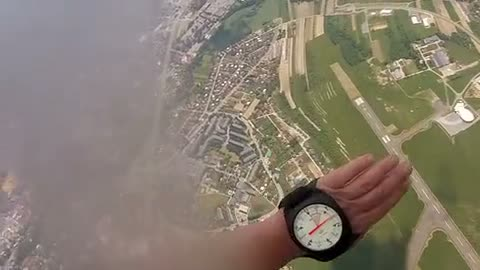
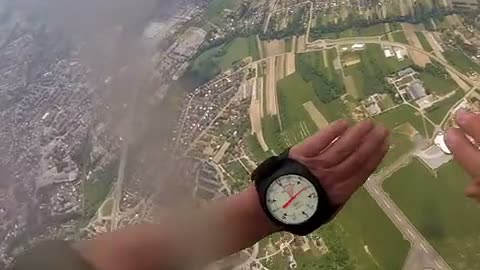
Real footage next to the drawings: exit, altimeter, canopy check and pattern clips; ft on big numbers and timelines
- Part I count: real first AFF exit from inside (exit_real)
- Part II flow: real wrist altimeter in freefall (alt_real, poster shows the dial)
- Part III deploy: POV canopy check right after opening; pattern: POV with the legs drawn on a real field
- "ft" on the altitude, EP and dropzone big numbers, dive-flow and pattern timelines, altimeter legend
- Canopy-check count chips labelled "Count, not altitude"; resume card says "x/20 tests passed"
- UK: "Висота відокремлення"; page guard report 2026-11-16-1415; plan and fixes overview updated

diff --git a/src/content/part3.ts b/src/content/part3.ts
@@ -110,6 +110,7 @@ export const part3: Part = {
                 clip('deploy', l('Lock on, wave off, reach, throw (their altimeter, not your pull altitude)', 'Altímetro, wave-off, buscar, lanzar (su altímetro, no tu altura de apertura)', 'Высотомер, отмашка, дотянуться, выбросить (их высотомер, не твоя высота раскрытия)', 'Висотомір, відмашка, дотягнутися, викинути (їхній висотомір, не твоя висота розкриття)'), 'Skydive Spaceland', 'ufz1HjyYs_0', 146),
                 clip('throw', l('Locate, grip, throw, arch, count', 'Localizar, agarrar, lanzar, arquear, contar', 'Найти, взять, выбросить, прогиб, счёт', 'Знайти, взяти, викинути, прогин, рахунок'), 'APF', 'PTYsjH7DSVA', 124),
                 clip('check', l('Canopy check: shape, slider, toggles, practice flares', 'Revisión de la vela: forma, slider, batidores, flares de práctica', 'Проверка купола: форма, слайдер, клеванты, пробные flare', 'Перевірка купола: форма, слайдер, клеванти, пробні flare'), 'APF', 'PTYsjH7DSVA', 154),
+                clip('canopy_check_pov', l('Your view right after opening: slider coming down, then the check: square, stable, steerable', 'Lo que ves justo después de abrir: el slider baja, luego la revisión: cuadrada, estable, gobernable', 'Что ты видишь сразу после раскрытия: слайдер опускается, дальше проверка: квадратный, стабильный, управляемый', 'Що ти бачиш одразу після розкриття: слайдер опускається, далі перевірка: квадратний, стабільний, керований'), 'Strictly Clown Business', 'moBHeP1WNNI', 33),
               ],
             },
           ],
@@ -214,7 +215,7 @@ export const part3: Part = {
           type: 'pattern',
           rows: [
             {
-              alt: '2,500',
+              alt: '2,500 ft',
               value: 2.5,
               point: [275, 205],
               title: l('Decide where to go', 'Decide adónde ir', 'Решаем, куда лететь', 'Вирішуємо, куди летіти'),
@@ -226,7 +227,7 @@ export const part3: Part = {
               ),
             },
             {
-              alt: '2,000',
+              alt: '2,000 ft',
               value: 2,
               point: [275, 205],
               title: l('Over the holding point', 'Sobre el punto de espera', 'Над точкой ожидания', 'Над точкою очікування'),
@@ -238,7 +239,7 @@ export const part3: Part = {
               ),
             },
             {
-              alt: '2,000→1,000',
+              alt: '2,000→1,000 ft',
               value: 1.5,
               point: [275, 205],
               title: l('Hold there', 'Espera ahí', 'Ожидание над точкой', 'Очікування над точкою'),
@@ -250,7 +251,7 @@ export const part3: Part = {
               ),
             },
             {
-              alt: '900',
+              alt: '900 ft',
               value: 0.9,
               hot: true,
               point: [250, 200],
@@ -263,7 +264,7 @@ export const part3: Part = {
               ),
             },
             {
-              alt: '600',
+              alt: '600 ft',
               value: 0.6,
               hot: true,
               point: [60, 200],
@@ -276,7 +277,7 @@ export const part3: Part = {
               ),
             },
             {
-              alt: '300',
+              alt: '300 ft',
               value: 0.3,
               hot: true,
               point: [60, 70],
@@ -327,6 +328,7 @@ export const part3: Part = {
           items: [
             clip('holding', l('Holding area, explained on a real dropzone', 'La zona de espera, explicada en una zona de salto real', 'Зона ожидания на настоящем аэродроме', 'Зона очікування на справжньому аеродромі'), 'Skydive Spaceland', 'puD56VJ8loA', 84),
             clip('pattern', l('Flying the pattern: downwind, base, final', 'Volar el circuito: viento en cola, base, final', 'Схема захода: по ветру, базовая прямая, финал', 'Схема заходу: по вітру, базова пряма, фінал'), 'Skydive Spaceland', 'puD56VJ8loA', 110),
+            clip('pattern_pov', l('From the canopy: downwind, base and final drawn on a real field (north wind at that dropzone)', 'Desde la vela: viento en cola, base y final dibujados sobre un campo real (viento del norte en esa zona de salto)', 'С купола: участки по ветру, базовая и финал нарисованы на настоящем поле (северный ветер на той площадке)', 'З купола: ділянки по вітру, базова й фінал намальовані на справжньому полі (північний вітер на тому майданчику)'), 'Skydive Miami', 'KUUMP_XCBUE', 217),
           ],
         },
         { type: 'h', text: l('Turn limits', 'Límites de giro', 'Ограничения разворотов', 'Обмеження розворотів') },

diff --git a/src/content/part2.ts b/src/content/part2.ts
@@ -174,7 +174,7 @@ export const part2: Part = {
           type: 'altimeter',
           rows: [
             {
-              alt: '13,000',
+              alt: '13,000 ft',
               value: 13,
               title: { en: 'Exit, arch', es: 'Salida, arquea', uk: 'Відокремлення, прогин', ru: 'Отделение, прогиб' },
               sub: {
@@ -229,14 +229,14 @@ export const part2: Part = {
               },
             },
             {
-              alt: '6,000',
+              alt: '6,000 ft',
               value: 6,
               hot: true,
               title: { en: 'Lock on', es: 'Lock on', uk: 'Лише висотомір', ru: 'Только высотомер' },
               sub: { en: '<b>No more</b> exercises.', es: '<b>Se acabaron</b> los ejercicios.', uk: 'Більше <b>жодних</b> вправ.', ru: 'Больше <b>никаких</b> упражнений.' },
             },
             {
-              alt: '5,500',
+              alt: '5,500 ft',
               value: 5.5,
               hot: true,
               title: { en: 'PULL', es: 'ABRIR', uk: 'РОЗКРИТТЯ', ru: 'РАСКРЫТИЕ' },
@@ -258,6 +258,18 @@ export const part2: Part = {
             uk: 'На справжньому студентському висотомірі колір є лише в <b>нижній частині</b> циферблата: в Alti-2 Galaxy, наприклад, жовто-червона дуга починається з <b>3 000 футів</b> (Para Gear). 6 000 і 5 500 нічим не позначені: <b>читай цифри</b>. Роздивися свій висотомір до стрибка.',
             ru: 'На настоящем студенческом высотомере цвет есть только в <b>нижней части</b> циферблата: у Alti-2 Galaxy, например, жёлто-красная дуга начинается с <b>3 000 футов</b> (Para Gear). 6 000 и 5 500 ничем не отмечены: <b>читай цифры</b>. Рассмотри свой высотомер до прыжка.',
           },
+        },
+        {
+          type: 'clips',
+          items: [
+            {
+              src: 'alt_real',
+              caption: { en: 'A real wrist altimeter, held up and read in freefall', es: 'Un altímetro de muñeca real, levantado y leído en caída libre', uk: 'Справжній наручний висотомір: підняти й прочитати у вільному падінні', ru: 'Настоящий наручный высотомер: поднять и прочитать в свободном падении' },
+              credit: 'Marcin Kobylecki',
+              yt: 'gCjqB_kB_qM',
+              t: 58,
+            },
+          ],
         },
         {
           type: 'callout',
@@ -432,7 +444,7 @@ export const part2: Part = {
           type: 'rules',
           items: [
             {
-              big: '6,000',
+              big: '6,000 ft',
               tone: 'accent',
               title: { en: 'Lock on', es: 'Lock on', uk: 'Лише висотомір', ru: 'Только высотомер' },
               text: {
@@ -443,7 +455,7 @@ export const part2: Part = {
               },
             },
             {
-              big: '5,500',
+              big: '5,500 ft',
               tone: 'accent',
               title: { en: 'Pull', es: 'Abrir', uk: 'Розкриття', ru: 'Раскрытие' },
               text: {

diff --git a/src/content/dropzone.ts b/src/content/dropzone.ts
@@ -22,8 +22,8 @@ export const dropzone: Part = {
           { en: '<b>AAD required</b> for every jumper. A <b>big grassy</b> landing area.', es: '<b>AAD obligatorio</b> para todos. Una zona de aterrizaje <b>grande y con césped</b>.', uk: '<b>AAD обов’язковий</b> для всіх. Посадковий майданчик <b>великий, трав’яний</b>.', ru: '<b>AAD обязателен</b> для всех. Посадочная площадка <b>большая, травяная</b>.' },
         ] },
         { type: 'rules', items: [
-          { big: '13,000', title: { en: 'Exit altitude', es: 'Altura de salida', uk: 'Висота викидання', ru: 'Высота выброски' }, text: { en: 'For AFF students.', es: 'Para alumnos AFF.', uk: 'Для студентів AFF.', ru: 'Для студентов AFF.' } },
-          { big: '5,500', title: { en: 'Pull, category A', es: 'Apertura, categoría A', uk: 'Розкриття, категорія A', ru: 'Раскрытие, категория A' }, text: { en: 'Lock on at 6,000. USPA lowers the pull later: <b>D 5,000, E 4,500</b> <q-check/>.', es: 'Lock on a 6,000. USPA baja la apertura después: <b>D 5,000, E 4,500</b> <q-check/>.', uk: 'З 6 000 — лише висотомір. Далі USPA знижує розкриття: <b>D 5 000, E 4 500</b> <q-check/>.', ru: 'С 6 000 — только высотомер. Дальше USPA снижает раскрытие: <b>D 5 000, E 4 500</b> <q-check/>.' } },
+          { big: '13,000 ft', title: { en: 'Exit altitude', es: 'Altura de salida', uk: 'Висота відокремлення', ru: 'Высота выброски' }, text: { en: 'For AFF students.', es: 'Para alumnos AFF.', uk: 'Для студентів AFF.', ru: 'Для студентов AFF.' } },
+          { big: '5,500 ft', title: { en: 'Pull, category A', es: 'Apertura, categoría A', uk: 'Розкриття, категорія A', ru: 'Раскрытие, категория A' }, text: { en: 'Lock on at 6,000. USPA lowers the pull later: <b>D 5,000, E 4,500</b> <q-check/>.', es: 'Lock on a 6,000. USPA baja la apertura después: <b>D 5,000, E 4,500</b> <q-check/>.', uk: 'З 6 000 — лише висотомір. Далі USPA знижує розкриття: <b>D 5 000, E 4 500</b> <q-check/>.', ru: 'С 6 000 — только высотомер. Дальше USPA снижает раскрытие: <b>D 5 000, E 4 500</b> <q-check/>.' } },
           { big: 'A → E', title: { en: 'Categories with instructors', es: 'Categorías con instructores', uk: 'Категорії з інструкторами', ru: 'Категории с инструкторами' }, points: [
             { en: '<b>A</b>: two instructors hold you, pull at 5,500', es: '<b>A</b>: dos instructores te sujetan, abres a 5,500', uk: '<b>A</b>: тебе тримають два інструктори, розкриття на 5 500', ru: '<b>A</b>: тебя держат два инструктора, раскрытие на 5 500' },
             { en: '<b>B</b>: 90° turns, forward movement', es: '<b>B</b>: giros de 90° y avance', uk: '<b>B</b>: розвороти на 90°, рух уперед', ru: '<b>B</b>: развороты на 90°, движение вперёд' },

diff --git a/src/widgets.tsx b/src/widgets.tsx
@@ -208,8 +208,8 @@ export function Altimeter({ rows }: { rows: AltRow[] }) {
         </svg>
         <div className="cap"><b className="alt-now">{(r.value * 1000).toLocaleString('en-US')} ft</b><span><Rich s={r.title} /></span></div>
         <ul className="alt-legend">
-          <li><i style={{ background: 'var(--acc-canopy)' }} />6,000 · {t(L.lock)}</li>
-          <li><i style={{ background: 'var(--red)' }} />5,500 · {t(L.pull)}</li>
+          <li><i style={{ background: 'var(--acc-canopy)' }} />6,000 ft · {t(L.lock)}</li>
+          <li><i style={{ background: 'var(--red)' }} />5,500 ft · {t(L.pull)}</li>
           <li className="dir">↺ {t(L.dir)}</li>
         </ul>
       </div>
@@ -300,7 +300,7 @@ export function CanopyCheck({ items }: { items: { word: L; text: L }[] }) {
         <g transform={`translate(100 160) scale(${scale} ${Math.min(1, scale * 1.1)}) translate(-100 -160)`}><CanopyShape /></g>
         <line x1="100" y1="160" x2="100" y2="180" stroke="var(--ink)" strokeWidth="6" strokeLinecap="round" /><circle cx="100" cy="154" r="7" fill="var(--ink)" />
       </svg>
-      <div className="count">{[1, 2, 3, 4, 5].map(k => <span key={k} className={n >= k ? 'on' : ''}>{k}000</span>)}</div>
+      <div className="count"><span className="count-label">{t(ui.countLabel)}</span>{[1, 2, 3, 4, 5].map(k => <span key={k} className={n >= k ? 'on' : ''}>{k}000</span>)}</div>
       <div className="check-list">{items.map((it, i) => <div key={i} className={n >= 6 + i ? 'on' : ''}><b><Rich s={it.word} /></b><span><Rich s={it.text} /></span></div>)}</div>
       <div className="controls"><button type="button" className="btn primary" onClick={run}>{t(ui.pull)}</button></div>
     </div>

diff --git a/src/content/part4.ts b/src/content/part4.ts
@@ -259,7 +259,7 @@ export const part4: Part = {
               ],
             },
             {
-              big: '2,500',
+              big: '2,500 ft',
               tone: 'red',
               title: t(`Decision altitude`, `Altura de decisión`, `Высота принятия решения`, `Висота ухвалення рішення`),
               points: [
@@ -284,7 +284,7 @@ export const part4: Part = {
               ],
             },
             {
-              big: '1,000',
+              big: '1,000 ft',
               tone: 'red',
               title: t(`Hard deck`, `Límite mínimo`, `Нижняя граница`, `Нижня межа`),
               points: [
@@ -2162,7 +2162,7 @@ export const part4: Part = {
               `Exit count: exact words, which instructor first, exit altitude.`,
               `Conteo de salida: palabras exactas, qué instructor primero, altura de salida.`,
               `Отсчёт на выходе: точные слова, на какого инструктора смотрим первым, высота выброски.`,
-              `Відлік на виході: точні слова, на якого інструктора дивимося першим, висота викидання.`,
+              `Відлік на виході: точні слова, на якого інструктора дивимося першим, висота відокремлення.`,
             ),
           ],
         },

diff --git a/src/content/part1.ts b/src/content/part1.ts
@@ -573,6 +573,18 @@ export const part1: Part = {
           ],
         },
         {
+          type: 'clips',
+          items: [
+            {
+              src: 'exit_real',
+              caption: { en: 'A real first AFF exit, filmed from inside: the student in the door between two instructors, all three leave together', es: 'Una salida real de primer AFF, filmada desde dentro: el alumno en la puerta entre dos instructores, salen los tres a la vez', uk: 'Справжнє перше відокремлення за AFF, знято зсередини: студент у дверях між двома інструкторами, усі троє відокремлюються разом', ru: 'Настоящее первое отделение по AFF, снято изнутри: студент в двери между двумя инструкторами, все трое отделяются вместе' },
+              credit: 'Matt (YouTube)',
+              yt: 'Z5lxQOmDIKk',
+              t: 6,
+            },
+          ],
+        },
+        {
           type: 'watch',
           items: [
             { yt: 'kd8HVlIfzqc', t: 0, label: { en: 'Real AFF exit with instructors', es: 'Salida AFF real con instructores', uk: 'Справжнє відокремлення за AFF з інструкторами', ru: 'Настоящее отделение по AFF с инструкторами' }, credit: 'Perris' },

diff --git a/src/components/Hero.tsx b/src/components/Hero.tsx
@@ -163,12 +163,11 @@ export function Hero() {
         <svg className="ring" viewBox="0 0 64 64" aria-hidden="true">
           <circle cx="32" cy="32" r="27" className="track" />
           <circle cx="32" cy="32" r="27" className="val" strokeDasharray={`${pct * 169.6} 169.6`} transform="rotate(-90 32 32)" />
-          <text x="32" y="37" textAnchor="middle">{done}/{total}</text>
         </svg>
         <div className="rtext">
           <span className="rl">{lastCh ? `${t(T.where)}` : t(T.tests).replace(/^./, c => c.toUpperCase()) + `: ${done}/${total}`}</span>
           <b>{lastCh ? headline(t(lastCh.c.title)) : headline(t(chapters[0].c.title))}</b>
-          <span className="rl">{nextTest ? <>{t(T.nextTest)}: <a href={`#${nextTest.c.id}`}>{t(nextTest.c.title)}</a></> : t(T.allDone)}</span>
+          <span className="rl">{lastCh ? `${done}/${total} ${t(T.tests)} · ` : ''}{nextTest ? <>{t(T.nextTest)}: <a href={`#${nextTest.c.id}`}>{t(nextTest.c.title)}</a></> : t(T.allDone)}</span>
         </div>
         <a className="btn primary go" href={`#${target}`}>{t(lastCh ? T.cont : T.start)} →</a>
       </div>

diff --git a/src/ui.ts b/src/ui.ts
@@ -18,6 +18,7 @@ export const ui = {
   play: { en: 'Play', es: 'Reproducir', ru: 'Пуск', uk: 'Пуск' },
   thumbCheck: { en: 'Thumb-to-ear check', es: 'Pulgares a las orejas', ru: 'Пальцы к ушам', uk: 'Пальці до вух' },
   pull: { en: 'Pull', es: 'Abrir', ru: 'Раскрыть', uk: 'Розкрити' },
+  countLabel: { en: 'Count, not altitude:', es: 'Conteo, no altura:', ru: 'Счёт, не высота:', uk: 'Рахунок, не висота:' },
   test: { en: 'Test yourself', es: 'Ponte a prueba', ru: 'Проверь себя', uk: 'Перевір себе' },
   passed: { en: 'passed', es: 'aprobado', ru: 'сдано', uk: 'складено' },
   right: { en: 'Right.', es: 'Correcto.', ru: 'Верно.', uk: 'Правильно.' },

diff --git a/src/styles.css b/src/styles.css
@@ -269,7 +269,8 @@ details p { margin: 10px 0 0; color: var(--muted); }
 .check-list .on b { color: var(--ok); }
 .count { display: flex; gap: 6px; justify-content: center; flex-wrap: wrap; }
 .count span { font: 500 12px var(--mono); padding: 3px 8px; border-radius: 999px; background: var(--soft); opacity: .4; transition: opacity .2s; }
-.count span.on { opacity: 1; }
+.count span.on, .count span.count-label { opacity: 1; }
+.count span.count-label { background: none; padding-left: 0; padding-right: 0; color: var(--muted); font-family: inherit; flex-basis: 100%; text-align: center; }
 
 footer { padding-block: 120px 64px; color: var(--muted); font-size: 13px; background: linear-gradient(in oklab to bottom, var(--band-dz) 0, var(--paper) 200px); }
 

diff --git a/docs/review/page-guard/2026-11-16-1415.md b/docs/review/page-guard/2026-11-16-1415.md
@@ -1,0 +1,55 @@
+# Page guard, 2026-11-16 14:15 (uncommitted working tree)
+
+Scope: the chapters the uncommitted edits touch, not the whole site.
+
+## What was checked
+
+- `npm run check`: exit 0 (7 tests). `npx vite build`: exit 0. Both run again after the fix: still 0.
+- Browser: headless Chromium (Playwright 1.60) against the build of the current tree on port 5197. Port 5197 was already
+  held by a `vite preview --port 5197` from this repo (pid 40600, started 09:44), so the check ran on the rebuilt `dist/`
+  rather than a dev server. The build was redone after the fix.
+- Matrix: EN, ES, UK, RU × 375 px and 1280 px × light and dark = 16 runs. The canopy-check row was also measured at 320 px.
+- Chapters: I `count`, II `flow` and `altitude`, III `deploy` and `pattern`, IV `ep`, V `sdca` (dropzone cards), plus
+  the first-screen resume card (seeded with last chapter `flow` and 3 passed tests).
+- In each run:
+  - page `scrollWidth` equals the window width, before and after scrolling: OK everywhere.
+  - no element in the focus chapters runs past the right edge: OK.
+  - every `.rule .big` fits inside its card: OK. `6,000 ft`, `5,500 ft`, `2,500 ft`, `1,000 ft` and `13,000 ft` stay on one line, also at 375 px.
+  - layout shifts: a PerformanceObserver watched while the whole page scrolled in 700/800 px steps. No shift above 0.01 in any of the 16 runs.
+  - the 4 new clips (`exit_real`, `alt_real`, `canopy_check_pov`, `pattern_pov`):
+    - each poster loads (480 px wide);
+    - the video plays (readyState 4, currentTime > 1.6 s, not paused);
+    - a click opens `dialog.player` with the caption as its title.
+    - OK in all 16 runs.
+  - `alt_real` comes straight after the "A real student altimeter…" paragraph in `flow`, as intended.
+  - canopy check: the Pull button runs the drawing, and the chips light up in order.
+  - console: no app errors. The only message is Chromium's "compute-pressure" permissions note in ES runs, which comes from the browser, not the app.
+- Screenshots (scratchpad, not committed):
+  - resume card ×8 (phone);
+  - rules cards (altitude, ep, sdca) ×8 each on the phone plus EN desktop;
+  - canopy check before and after the fix;
+  - the 4 new clips at 375 and 1280.
+
+## Fixed
+
+| File:line | What |
+|---|---|
+| `src/styles.css:273` | Canopy check: the new "Count, not altitude:" label sat in the same wrapping row as the chips, so the chips broke onto two lines. On the phone "4000 5000" went to the second line; on desktop "5000" sat alone. The label now takes its own line (`flex-basis: 100%; text-align: center`), and the five chips stay on one row at 375 px and on desktop in all 4 languages and both themes. |
+
+## Open problems
+
+| # | Where | What | Screenshot description | Suggested fix |
+|---|---|---|---|---|
+| 1 | II `flow`, alt-rows list (also the timeline under the sticky altimeter) | Bare altitudes with no unit: `13,000`, `6,000`, `5,500` as row heads, and the legend `6,000 · lock on` / `5,500 · pull`. This breaks the owner's 2026-11-16 rule. | Blue mono "6,000" over "Lock on" and "5,500" over "PULL", with no "ft" anywhere in the row. | Add " ft" to the alt-rows heads and the legend, or one line above the list: "Altitude in feet". |
+| 2 | III `pattern`, alt-rows list | Same problem: row heads `2,500`, `2,000`, `2,000→1,000` have no unit. The next row says `1,000 → 300 ft`, so the units are mixed within one list. | List of pattern steps headed "2,500 / Decide where to go", etc. | Add " ft" to every head, to match "1,000 → 300 ft". |
+| 3 | V `sdca` card text, II `altitude` text | Bare numbers in text: "Lock on at 6,000", "D 5,000, E 4,500", "pull at 5,500" (dropzone cards and their UK/RU/ES versions); "pull at 5,500", "from 6,000 you have about 3 seconds to 5,500" (altitude). | Under the big "5,500 ft": "Lock on at 6,000. USPA lowers the pull later: D 5,000, E 4,500 CHECK". | Add "ft" to the first number in each sentence at least (content change for the owner). |
+| 4 | Big numbers in UK/RU/ES (`altitude`, `ep`, `sdca`) | The new `big` strings are English-only: `2,500 ft` sits right above "не ниже 2 500 футов". The number format (comma vs space) and unit (ft vs футов/фт/pies) differ inside one card. The same applies to the older `3 s`/`5 s` (RU text says "5 с"). | RU dark phone: red "2,500 ft" heading, and the first bullet below reads "2 500 футов". | Make `big` an `L` (or format it per language), e.g. RU/UK "2 500 фт", ES "2.500 ft" or "2,500 pies", following the formatting the rest of each language uses. |
+| 5 | First screen, resume card | The new line repeats the ring: the ring shows "3/20", and the line under the title reads "3/20 tests passed · Next test: The ride up". At 375 px in RU/UK the line wraps to two lines, and the card is 206 px tall in RU vs 178 px in EN. It does not overflow, but the count appears twice. | Ring "3/20" on the left; the grey line beside it repeats "3/20 тестов сдано · Следующий тест: Набор высоты". | Show the count in only one place: keep the ring and drop `${done}/${total} …` from the line, or keep the line and drop the text in the ring. |
+| 6 | III `deploy` canopy check, 320 px only | After the fix the 5 chips still wrap to 3 + 2 at 320 px (iPhone SE 1st gen / zoomed text). 375 px and up are fine. | Narrow phone: "1000 2000 3000 4000" on the first row and "5000" on the second. | Optional: at `max-width: 340px`, set `.count { gap: var(--s1) }` and reduce the chip padding. |
+| 7 | III `pattern`, clip `pattern_pov` | The caption says downwind, base and final are "drawn on a real field", but the poster frame shows no drawing yet. A reader scanning the posters won't see what the caption promises. | Helmet-cam view of fields and a blue canopy edge; no lines drawn on the field. | Pick a poster frame from later in the clip, where the pattern lines are visible. |
+| 8 | III `deploy`, `canopy_check_pov` caption (EN) | The list mixes kinds of words: "then shape, stability, steerable", while the drawing below uses "Square / Stable / Steerable". | Caption under the POV clip. | Use the drawing's words: "…then square, stable, steerable" (content change for the owner). |
+
+## Readability notes (focus chapters)
+
+- The dropzone "Pull, category A" card packs three altitudes (6,000, 5,000, 4,500) into two sentences under a big 5,500 ft. It is a little hard to scan; a short list would read better.
+- Terms are consistent: UK "висота відокремлення" now appears in both places (dropzone card and the instructor-questions line). RU still says "высота выброски" in both, while the new RU `exit_real` caption says "отделение". Both words are understood, but the owner may want one of them.

diff --git a/docs/PLAN.md b/docs/PLAN.md
@@ -26,9 +26,9 @@ lines top down; a line is closed only when it's done and seen, or the owner drop
 - [x] Sections felt cramped: more space, margins, sizes (6eea713).
 - [x] Incident cards: the clip opens the full YouTube video (6eea713).
 - [x] Numbers tape: 2,500 = can you reach the holding point; emergency numbers separate (6eea713).
-- [~] Real pictures next to every drawing, the rig first: rig back/front clips placed (pushed with the Part I fixes);
-      exit, altimeter, pattern and canopy-check clips cut, to place next to their drawings; then a real rig photo
-      with the same tap points as the drawing (curriculum review, visual #1).
+- [x] Real pictures next to every drawing, the rig first: rig back/front clips and the 8 rig-part photos placed;
+      exit (Part I count), altimeter (Part II flow, poster now shows the dial), canopy-check POV (Part III deploy) and
+      pattern POV (Part III pattern) placed 2026-11-16 14:00 run, seen EN/ES/UK/RU, light/dark, desktop/375 px.
 - [?] Photo of the dropzone map from the ground course → next to the pattern drawing and in Part V (owner sends it).
 - [x] Phone scrolling jumped: rail no longer catches touches (6eea713). Owner to confirm on the iPhone.
 - [x] Header: title left, language and theme right (6eea713).
@@ -62,7 +62,11 @@ lines top down; a line is closed only when it's done and seen, or the owner drop
       YouTube, pros, official manuals), a study app like this one, expert fact-check, curriculum review, page guard,
       notes capture, final exam + AI-tutor prompt, then reinforcement after the course. Skill `/study` in agent-tools,
       mission: knowledge that can save a life (2026-11-16). Done: ~/agent-tools/skills/study (+ /factcheck, /autopilot sprint).
-- [ ] Page guard findings (docs/review/page-guard/2026-11-16-full.md): "ft" on every altitude everywhere (cards, prose,
+- [~] Page guard findings (docs/review/page-guard/2026-11-16-full.md). Done 14:00 run: "ft" on the big altitude cards
+      (altitude, EP, dropzone), count chips labelled "Count, not altitude", hero ring line "x/20 tests passed", UK
+      "відокремлення"; "ft" on the dive-flow and pattern timelines and the altimeter legend (page guard
+      docs/review/page-guard/2026-11-16-1415.md). Still open: bare altitudes in prose; big numbers per language format
+      ("2,500 ft" over "2 500 футов"); RU "выброска" vs "отделение"; "ft" on every altitude everywhere (cards, prose,
       altimeter rows, legend, pattern labels, hero axis); label the canopy-check count chips as the count, not altitudes;
       one number format per language (UK/RU "5 500" vs "5,500"); translate the English injury-chart sources in ES/UK/RU;
       UK "викидання" → "відокремлення"; label the hero "0/20" ring; phone: sticky exit-count drawing covers the steps.
@@ -75,7 +79,7 @@ Added by the owner-asks audit (docs/review/owner-asks-audit.md):
 - [x] Collect the ask-owner questions from every fixer log (docs/review/fixes/*.md) into "Waiting on you", one question each with a recommended answer; fixes.md says they are there, they are not (from 2026-11-16)
 - [x] Put the two open questions under "Waiting on you": lowercase headlines everywhere (§0b) and the big reorder (line above) (from 2026-11-16)
 - [x] Run the page guard (.claude/agents/aff-page-guard.md) on all chapters: never run yet, docs/review/page-guard/ doesn't exist (from 2026-11-16)
-- [ ] Tidy stale ticks: §0c "Two more checkers" and "24-hour finishing run" are [ ] while this inbox has them [x] (from 2026-11-16)
+- [x] Tidy stale ticks: §0c "Two more checkers" and "24-hour finishing run" are [ ] while this inbox has them [x] (from 2026-11-16)
 
 ### Standing preferences (apply to all future work)
 - Real footage or photos over drawings; a picture or clip next to every piece of text; moving clips over still images.
@@ -179,18 +183,18 @@ Added by the owner-asks audit (docs/review/owner-asks-audit.md):
 - [x] Header: title left, part in the middle (numeral only on phones), language + theme pinned right.
 - [x] Numbers stay with their units on one line ("5 s", "2 500 футов", "SIM 4-1"); quiz button "Next question";
       holding point: S-turns / figure-eights within the 180° limit (asked the instructors: circles allowed?).
-- [~] Independent expert fact-check: `.claude/agents/aff-expert-reviewer.md` (an AFF instructor seeing the app for the
+- [x] Independent expert fact-check: `.claude/agents/aff-expert-reviewer.md` (an AFF instructor seeing the app for the
       first time, checks every claim against USPA SIM/BSR, manuals, Parachutist). 6 reviewers, reports in
       `docs/review/expert/`; then one list of fixes: clear ones applied, the rest asked.
-- [ ] Two more checkers: `.claude/agents/aff-page-guard.md` (page still works and reads well: every chapter, 4 languages,
+- [x] Two more checkers: `.claude/agents/aff-page-guard.md` (page still works and reads well: every chapter, 4 languages,
       light/dark, phone/desktop) and `.claude/agents/aff-curriculum-reviewer.md` (what's missing, new sections, more and
       better tests, visuals). Reports in `docs/review/page-guard/` and `docs/review/curriculum/`.
-- [ ] 24-hour finishing run: task `aff-notes-finish-review`, every 2 hours from 2026-11-16 12:00 to 2026-11-17 10:00,
+- [x] 24-hour finishing run: task `aff-notes-finish-review`, every 2 hours from 2026-11-16 12:00 to 2026-11-17 10:00,
       then it switches itself off. Each run processes the open review findings and reports.
 - [ ] Owner to re-check scrolling on the iPhone (the fix is seen in the emulator only).
 - [x] Numbers tape fixed: 2,500 = can you reach the holding point (canopy plan), then 2,000 over it, 1,000 leave it;
       the emergency 2,500 (decide and act on a bad main) and 1,000 (no cutaway below) moved to their own red row.
-- [ ] Real footage next to every drawing (rig with its parts first, exit, altimeter, pattern POV, canopy check POV).
+- [x] Real footage next to every drawing (rig with its parts first, exit, altimeter, pattern POV, canopy check POV).
 - [x] Email draft rewritten in the owner's words (review + free help + what to add); not sent.
 
 ## Facts to verify (doubts raised by the text reviewers; check against sources, then fix or mark <q-check/>)

diff --git a/docs/review/fixes.md b/docs/review/fixes.md
@@ -7,7 +7,7 @@ Expert reports: `docs/review/expert/<scope>.md`. A second, independent pass on P
 first one was being fixed) is kept in `docs/review/expert/second-opinion/part4-emergencies.md`: compare it with the fixer
 log when Part IV is done.
 
-## Status 2026-11-16 10:25 PST
+## Status 2026-11-16 14:10 PST
 
 | scope | report | fixer log | fixed | added | rejected | ask-owner | status |
 |---|---|---|---|---|---|---|---|
@@ -15,11 +15,12 @@ log when Part IV is done.
 | part2-freefall | yes | yes | 6 | 5 | 2 | 3 (4 questions) | done 8a2c519 |
 | part3-canopy | yes | yes | 13 | 7 | 1 | 4 | done 8a2c519 |
 | first-screen-dropzone | yes | yes | 6 | 3 | 0 | 2 (3 questions) | done 92dd8f4 |
-| part4-emergencies | yes | no | | | | | todo: owner's chat is fixing it (part4.ts uncommitted) |
-| part4-injuries-tips | yes | no | | | | | todo: owner's chat is fixing it |
-| curriculum | 2026-11-16.md | | | | | | proposals; build one sourced item per run |
+| part4-emergencies | yes | yes | 18 | 1 | 0 | 3 | done 8f436c7; 4 left for later (#17, M1, M2 not added, C3 elsewhere) |
+| part4-injuries-tips | yes | yes | 16 | 1 | 1 | 3 (+1 listed) | done d99a86a |
+| curriculum | 2026-11-16.md | | | | | | proposals; final check (543718d) and rig photos (8084813) built; next: one sourced item per run |
+| real footage | real-footage.md | | 6 clips + 8 photos placed | | | | done (rig 8084813; exit, altimeter, canopy check, pattern: 14:00 run) |
 
-## Safety items to confirm once Part IV is committed
+## Safety items from Part IV (applied in 8f436c7 / d99a86a; kept as the checklist)
 
 From the two Part IV reports (both passes agree on these):
 - Biplane: don't flare, toggles stowed, steer the front canopy with its rear risers (USPA SIM 4-1).
